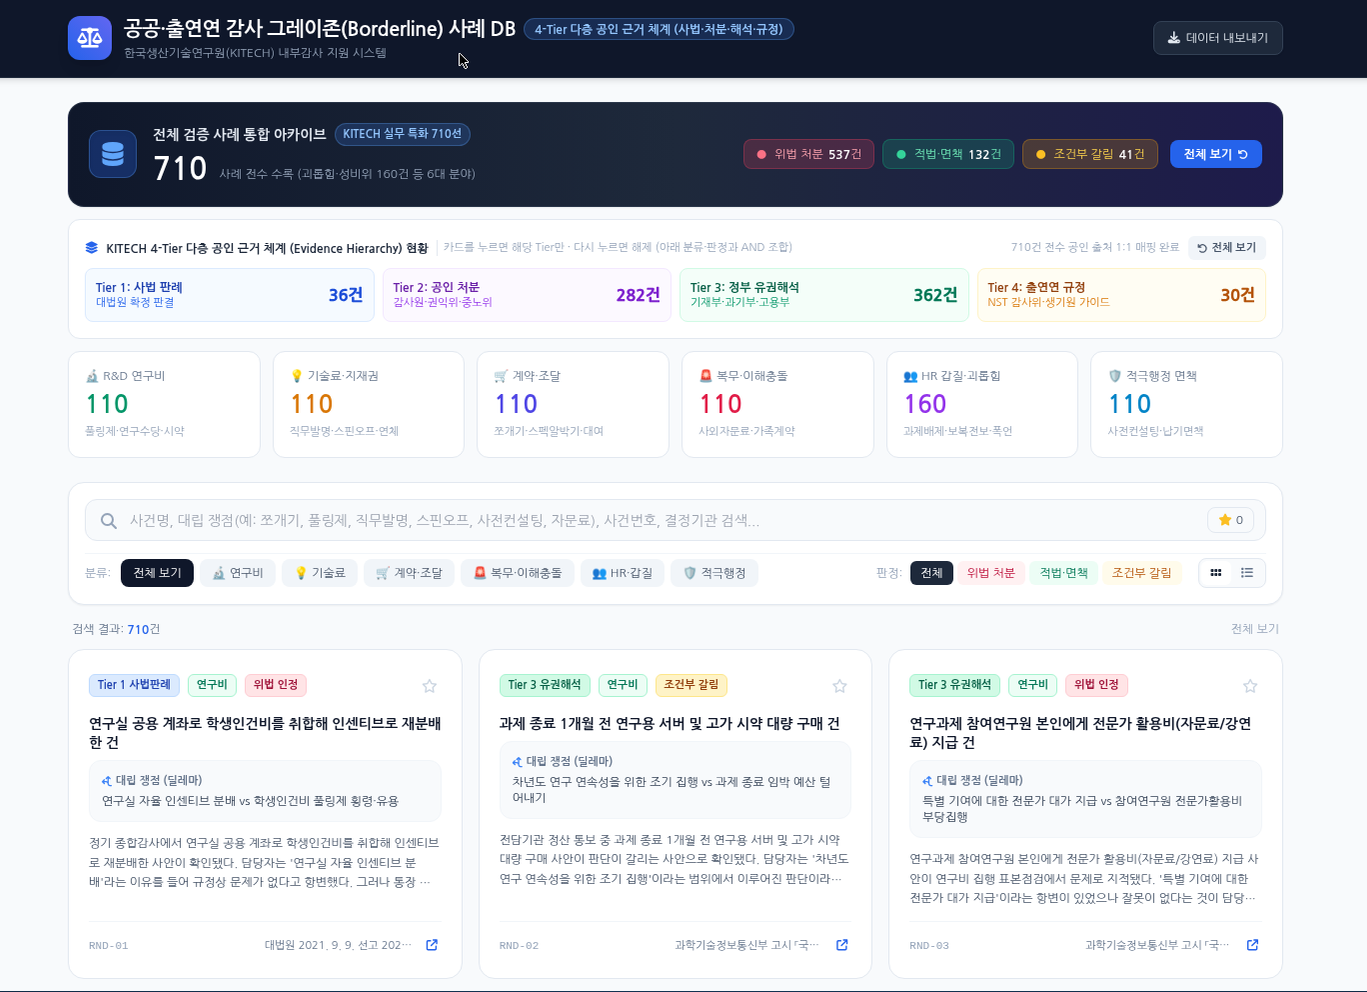
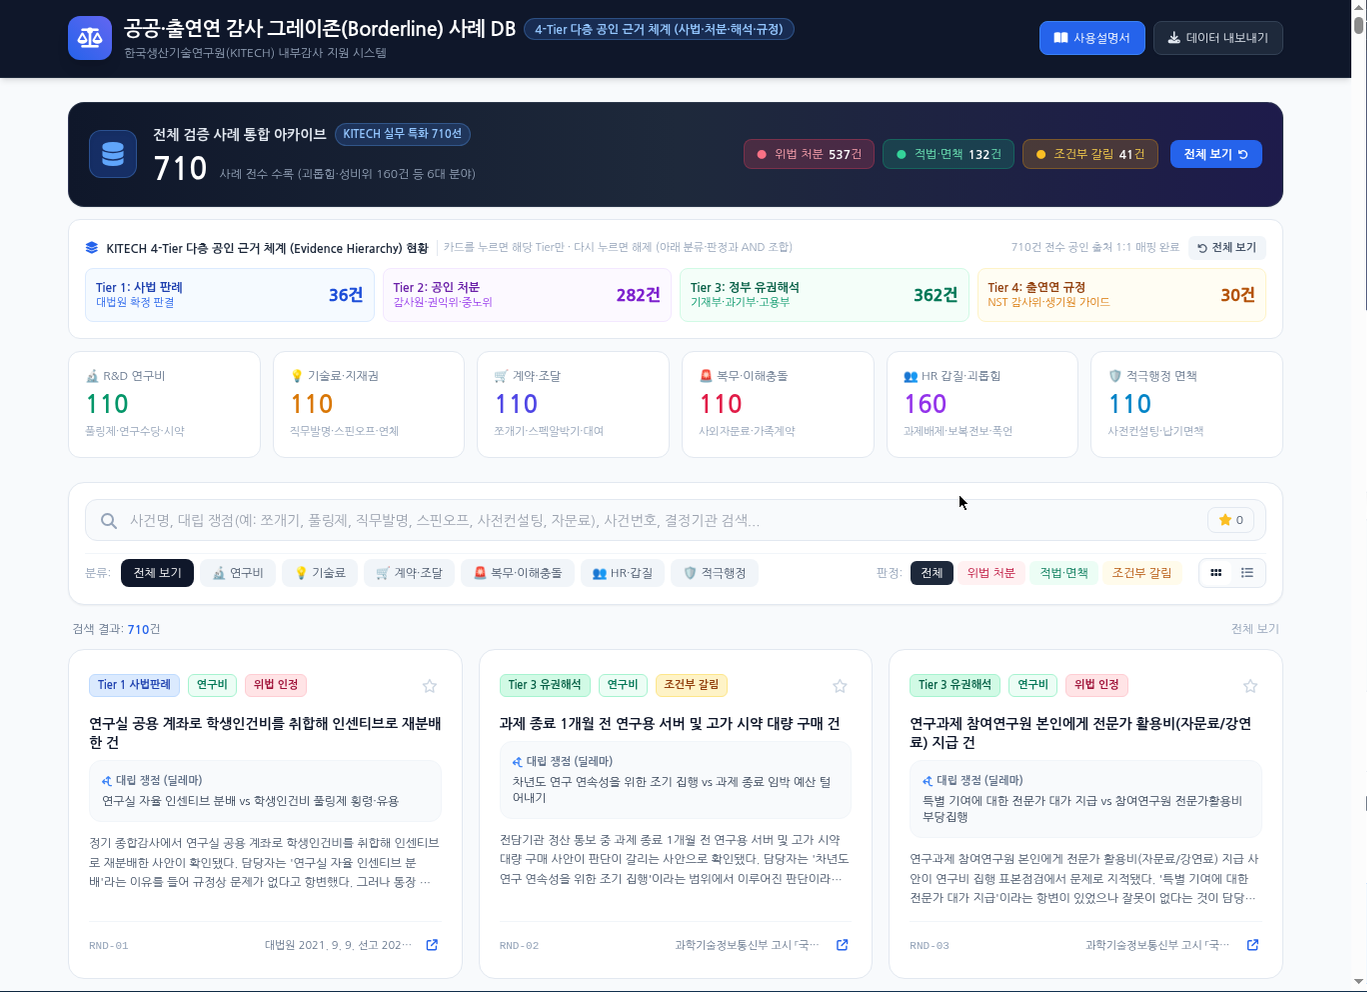
docs: 사용설명서 화면1 캡처를 [사용설명서] 버튼 반영 실서비스 화면으로 갱신, 표4·보관 안내 문구 동기화

Changed region(s): [[0.7374, 0.0, 0.8603, 0.0625], [0.9832, 0.0, 1.0, 0.0938], [0.6759, 0.7188, 0.7067, 0.75]]

diff --git a/guide.html b/guide.html
@@ -637,7 +637,7 @@
             <tr><th style="width:6%">No</th><th style="width:22%">영역</th><th>하는 일</th></tr>
           </thead>
           <tbody>
-            <tr><td class="c">①</td><td><b>상단 헤더</b></td><td>앱 이름과 제목. 오른쪽 <b>[데이터 내보내기]</b>는 710건 전체를 JSON 파일로 내려받습니다(연구·분석용).</td></tr>
+            <tr><td class="c">①</td><td><b>상단 헤더</b></td><td>앱 이름과 제목. 오른쪽 <b>[사용설명서]</b>는 이 설명서를 팝업 창으로 다시 열고, <b>[데이터 내보내기]</b>는 710건 전체를 JSON 파일로 내려받습니다(연구·분석용).</td></tr>
             <tr><td class="c">②</td><td><b>통합 아카이브 카드</b></td><td>전체 <b>710건</b>과 판정 3색(위법 처분 537 · 적법·면책 132 · 조건부 갈림 41)을 보여 줍니다. 오른쪽 <b>[전체 보기]</b>를 누르면 모든 필터·검색어가 한 번에 초기화됩니다.</td></tr>
             <tr><td class="c">③</td><td><b>4-Tier 배너</b></td><td>Tier 1~4 카드(36 · 282 · 362 · 30건). <b>카드를 누르면 그 Tier만</b> 남고, <b>같은 카드를 다시 누르면 해제</b>됩니다. 우측 상단에도 전체 보기 버튼이 있습니다.</td></tr>
             <tr><td class="c">④</td><td><b>6대 분야 카드</b></td><td>분야별 건수(110 · 110 · 110 · 110 · 160 · 110). 카드를 누르면 그 분야만 남습니다. Tier와 함께 누르면 <b>두 조건이 겹쳐서</b> 좁혀집니다.</td></tr>
@@ -815,7 +815,7 @@
           <li><b>즐겨찾기</b> — 팝업 왼쪽 아래 <b>[☆ 즐겨찾기 추가]</b>. 카드 오른쪽 위 별을 눌러도 됩니다. 다시 누르면 해제됩니다.</li>
           <li><b>즐겨찾기만 보기</b> — 검색창 오른쪽 <b>★(개수)</b> 버튼. 다시 누르면 전체로 돌아옵니다.</li>
           <li><b>표로 보기</b> — 필터 줄 오른쪽의 <b>보기 전환 아이콘</b>(카드형 ↔ 목록형)으로 화면 방식을 바꿉니다. 표는 <b>번호 · 분류 · 사례명 및 핵심 내용 · 핵심 대립 쟁점(VS) · 최종 판정 · 결정적 판단 기준 · 공인 근거 검색</b> 7개 열이며, 화면이 좁으면 가로로 스크롤됩니다.</li>
-          <li><b>보관</b> — 화면 인쇄는 <b>Ctrl + P</b>, 710건 전체 데이터는 헤더의 <b>[데이터 내보내기]</b>(JSON 파일).</li>
+          <li><b>보관</b> — 화면 인쇄는 <b>Ctrl + P</b>, 710건 전체 데이터는 헤더의 <b>[데이터 내보내기]</b>(JSON 파일), 이 설명서는 헤더의 <b>[사용설명서]</b>로 언제든 다시 엽니다.</li>
         </ul>
 
         <div class="box tip">
